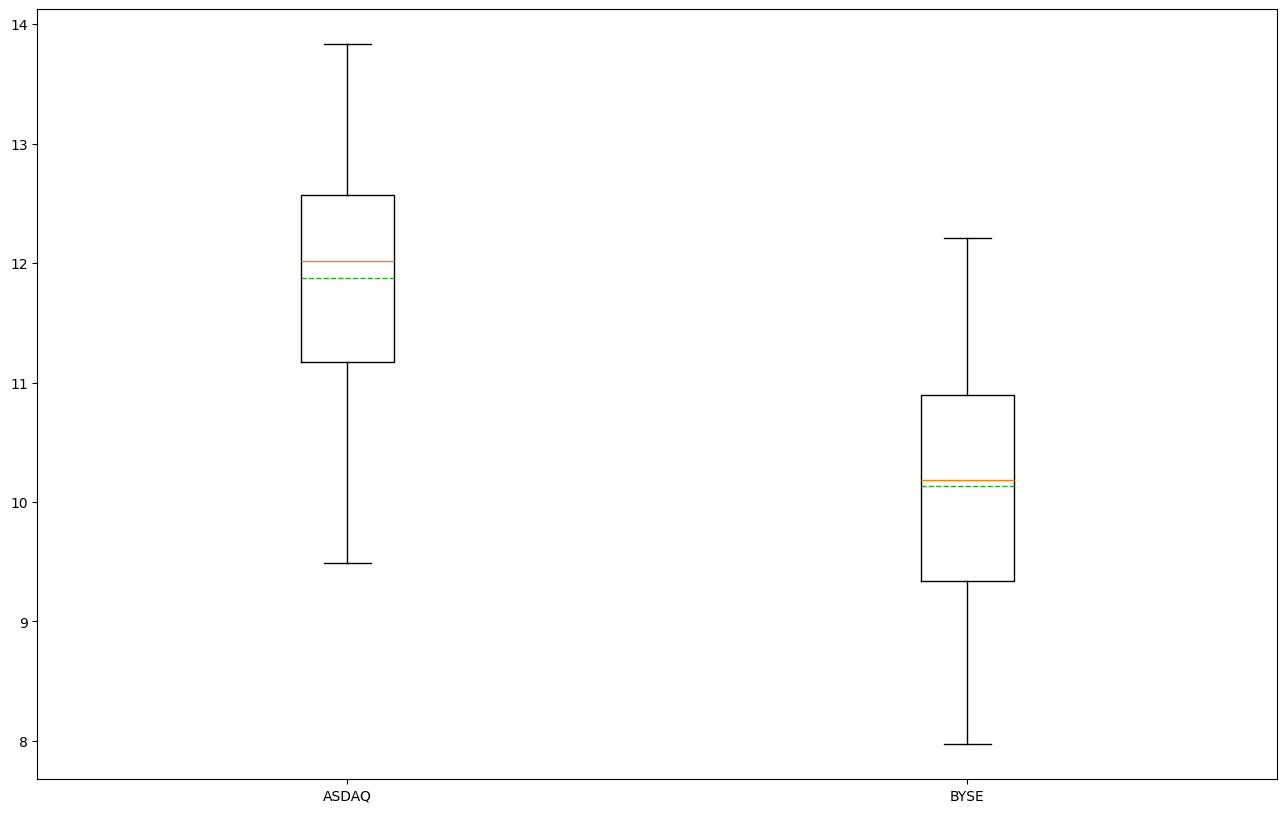
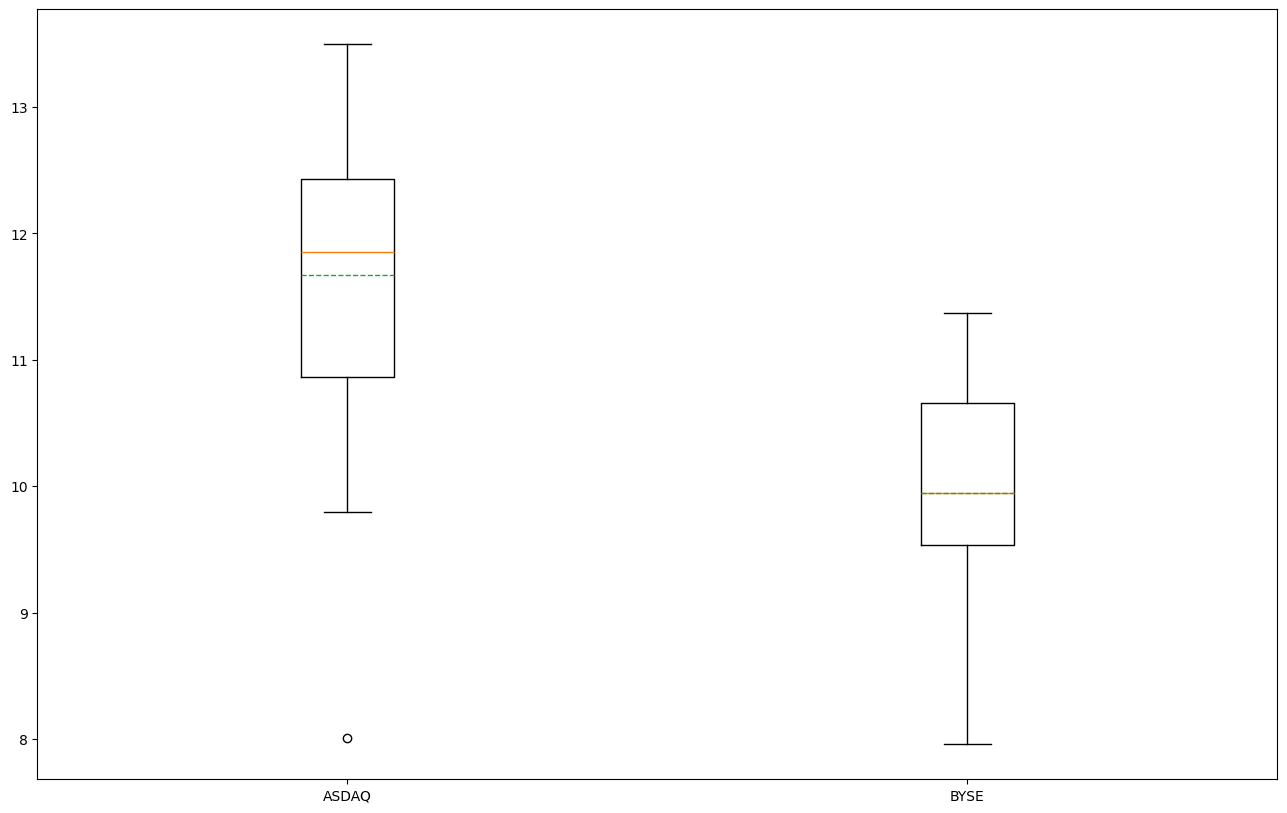
docs: update notes

diff --git a/docs/02_ab_testing.v2.md b/docs/02_ab_testing.v2.md
@@ -50,10 +50,10 @@ byse = TimeOfDayEffectWrapper(byse)
 print(Money(byse.sample()))
 ```
 
-    $12.60
-    $12.07
-    $11.97
-    $10.47
+    $10.10
+    $12.92
+    $10.41
+    $9.54
 
 
 
@@ -62,8 +62,8 @@ print(Money(np.mean([byse.sample() for _ in range(100)])))
 print(Money(np.mean([asdaq.sample() for _ in range(100)])))
 ```
 
-    $10.01
-    $11.92
+    $9.84
+    $12.04
 
 
 
@@ -77,9 +77,9 @@ print(np.std([aggregate_measurements(100, asdaq) for _ in range(1000)]))
 print(np.std([aggregate_measurements(1000, asdaq) for _ in range(1000)]))
 ```
 
-    0.3196349610840148
-    0.09966748498601331
-    0.031848859749219416
+    0.31283346581290916
+    0.10087738136912469
+    0.03147607502280195
 
 
 
@@ -95,9 +95,9 @@ print("Std Error: {:.4f}".format(st.sem(sample_population)))
 print("Std Deviation: {:.4f}".format(sample_population.std()))
 ```
 
-    Mean: 12.0017
+    Mean: 11.9891
     Std Error: 0.0096
-    Std Deviation: 0.3030
+    Std Deviation: 0.3039
 
 
 
@@ -186,8 +186,8 @@ print("sem={:.4f} | std={:.4f} | mean={:.4f}".format(sem, std, mean))
 print(len(asdaq_samples))
 ```
 
-    sem=0.1918 | std=1.0329 | mean=11.8742
-    30
+    sem=0.2135 | std=1.1885 | mean=11.6697
+    32
 
 
 
@@ -199,8 +199,8 @@ print("sem={:.4f} | std={:.4f} | mean={:.4f}".format(sem, std, mean))
 print(len(byse_samples))
 ```
 
-    sem=0.1486 | std=1.0717 | mean=10.1360
-    53
+    sem=0.1606 | std=0.8649 | mean=9.9430
+    30
 
 
 
@@ -219,7 +219,7 @@ tstat, pvalue, pvalue < 0.05, st.norm.sf(tstat)
 
 
 
-    (7.1634220655924175, 3.9343802630099865e-13, True, 3.9343802630099865e-13)
+    (6.463670651523492, 5.109658360505467e-11, True, 5.109658360505467e-11)
 
 
 
@@ -253,7 +253,7 @@ es
 
 
 
-    1.6232029759359887
+    1.6261971850246641
 
 
 
@@ -267,7 +267,7 @@ statistics.stdev(asdaq_samples), np.std(asdaq_samples, ddof=1)
 
 
 
-    (1.0505579720423257, 1.0505579720423257)
+    (1.2075548861950471, 1.2075548861950471)
 
 
 
@@ -289,7 +289,7 @@ sm.NormalIndPower().solve_power(
 
 
 
-    4.693020839277872
+    4.675754857627041
 
 
 
@@ -308,7 +308,26 @@ sm.zt_ind_solve_power(
 
 
 
-    4.693020839277872
+    4.675754857627041
+
+
+
+
+```python
+sm.tt_ind_solve_power(
+    effect_size=es,
+    nobs1=None,
+    alpha=alpha,
+    power=power,
+    ratio=1.0,
+    alternative="larger",
+)
+```
+
+
+
+
+    5.500558161189811
 
 
 
@@ -339,7 +358,7 @@ sample_size(asdaq_samples, byse_samples)
 
 
 
-    4.654096132203569
+    4.628452969395122
 
 
 
@@ -365,6 +384,22 @@ analyze(asdaq_samples, byse_samples)
 
 
 
-    (7.1634220655924175, 3.9343802630099865e-13)
+    (6.463670651523492, 5.109658360505467e-11)
+
+
+
+
+```python
+x1 = asdaq_samples
+x2 = byse_samples
+sm.ttest_ind(
+    x1, x2, alternative="larger", usevar="unequal", weights=(None, None), value=0
+)
+```
+
+
+
+
+    (6.4636706515234765, 1.2695504612656468e-08, 56.63173232071476)
 
 
